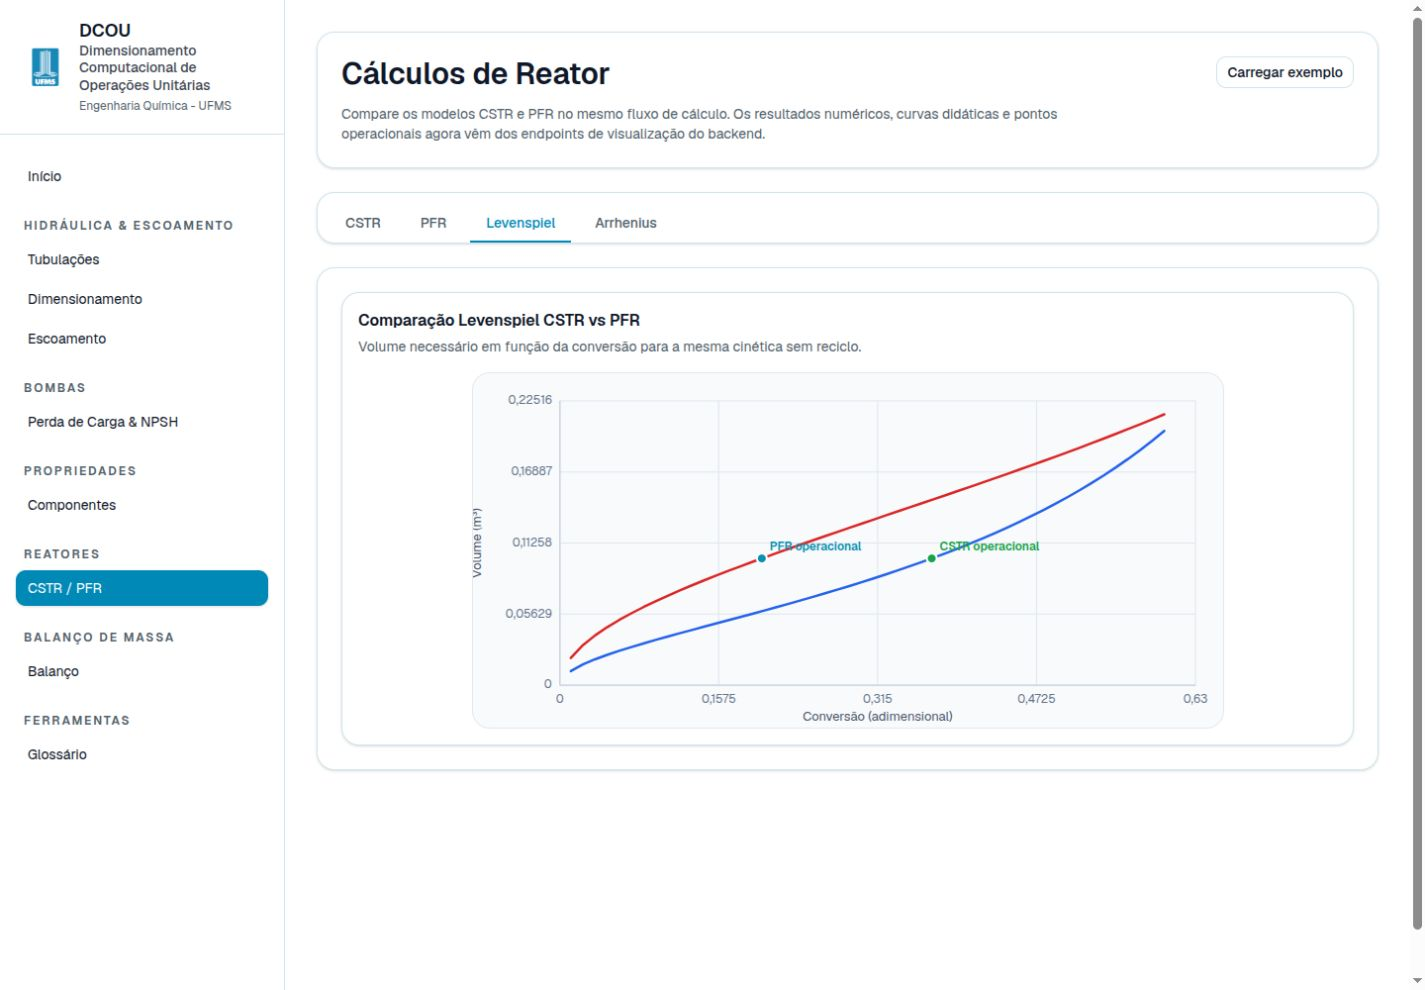
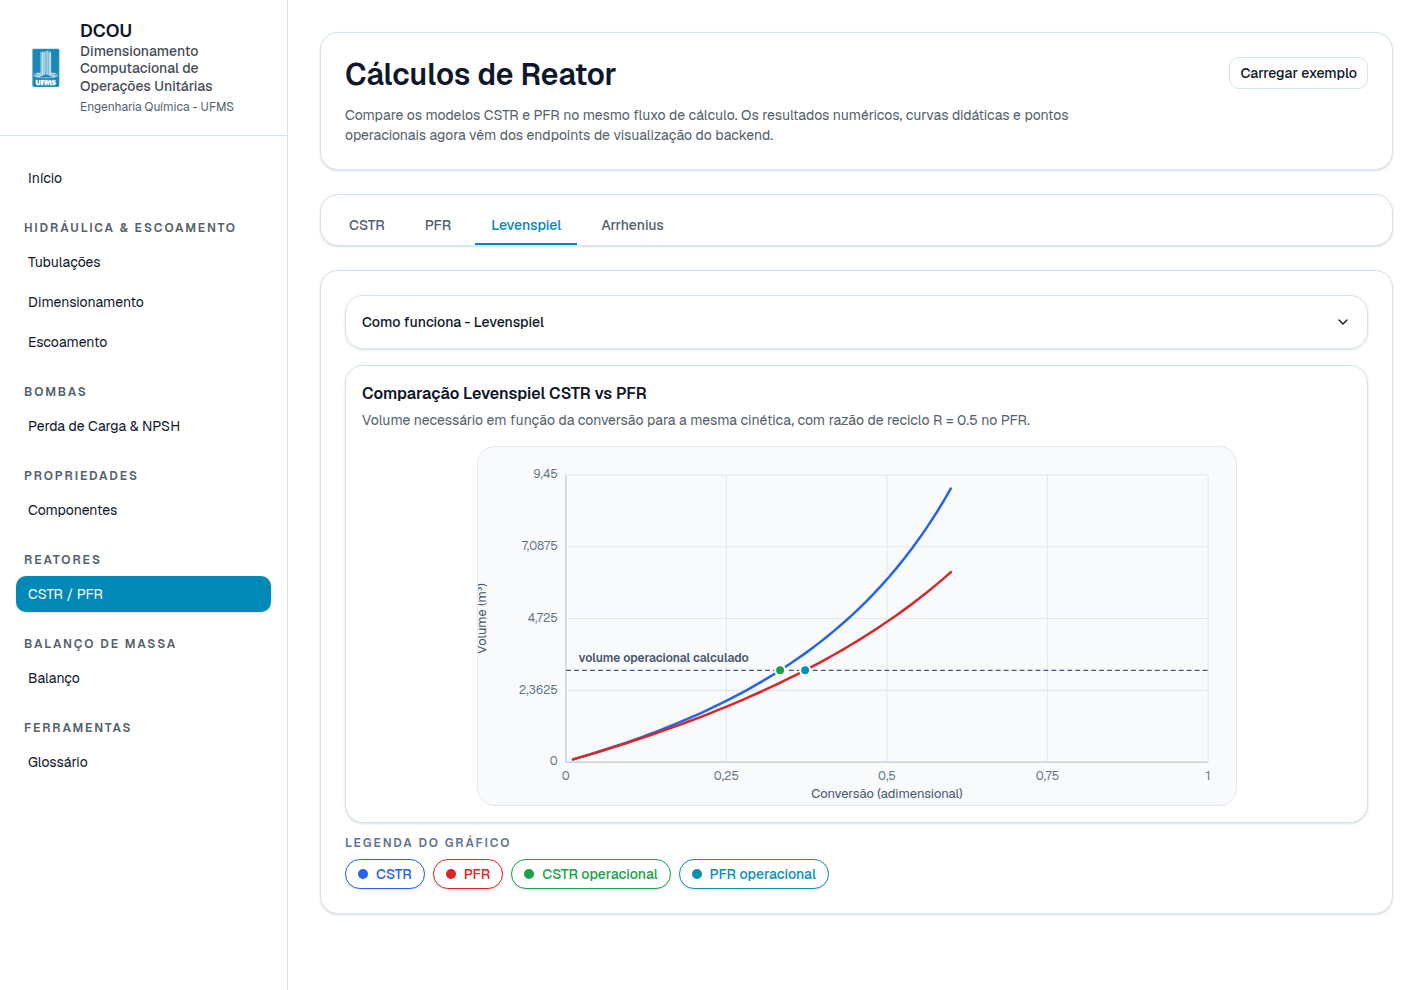
docs: refresh Levenspiel figure.

diff --git a/frontend/src/test/reactor-page.test.tsx b/frontend/src/test/reactor-page.test.tsx
@@ -806,6 +806,32 @@ describe("ReactorPage", () => {
     selectReactorTab("CSTR");
   }, 10000);
 
+  it("keeps the Levenspiel comparison available when only the PFR has recycle", async () => {
+    mockReactorRequests();
+    renderReactorPage();
+
+    expect(await screen.findByText(/Cálculos de Reator/i)).toBeInTheDocument();
+    fireEvent.click(screen.getByText(/Carregar exemplo/i));
+
+    selectReactorTab("PFR");
+    const pfrCard = await screen.findByTestId("reactor-pfr-card");
+    const recyclingRatio = within(pfrCard).getByLabelText(/Razão de reciclo/i);
+    fireEvent.change(recyclingRatio, { target: { value: "0.5" } });
+    fireEvent.click(within(pfrCard).getByText(/Calcular PFR/i));
+    await expectCardValueMath(pfrCard, /^Volume$/i);
+
+    selectReactorTab("CSTR");
+    const cstrCard = await screen.findByTestId("reactor-cstr-card");
+    fireEvent.click(within(cstrCard).getByText(/Calcular CSTR/i));
+    await expectCardValueMath(cstrCard, /^Volume$/i);
+
+    selectReactorTab("Levenspiel");
+    expect(await screen.findByTestId("levenspiel-chart")).toBeInTheDocument();
+    expect(requestBodiesFor("/api/reactor/levenspiel/chart")).toContainEqual(
+      expect.objectContaining({ recycling_ratio: 0.5 }),
+    );
+  }, 10000);
+
   it("shows a loading state while the comparative Levenspiel chart is being fetched", async () => {
     const requests = mockReactorRequests({ delayLevenspiel: true });
     renderReactorPage();

diff --git a/frontend/src/features/reactor/reactor-page.tsx b/frontend/src/features/reactor/reactor-page.tsx
@@ -79,7 +79,6 @@ type ReactorComparableBasis = {
   conversion: string;
   volume: string;
   residenceTime: string;
-  recyclingRatio: string;
   components: Array<{
     state: ReactorComponentState["state"];
     componentName: string;
@@ -332,7 +331,6 @@ function buildComparableBasis(form: ReactorFormState): ReactorComparableBasis | 
     conversion: normalizeScalar(form.conversion),
     volume: normalizeScalar(form.volume),
     residenceTime: normalizeScalar(form.residenceTime),
-    recyclingRatio: normalizeScalar(form.recyclingRatio),
     components: indexes.map((index) => ({
       state: form.components[index].state,
       componentName: normalizeScalar(form.components[index].component_name),

diff --git a/routers/reactor.py b/routers/reactor.py
@@ -157,6 +157,13 @@ def calculate_pfr_spatial_profile(payload: ReactorSpatialProfileRequest):
 def build_levenspiel_chart(payload: ReactorPlotRequest):
     try:
         components = _components_to_dicts(payload.components)
+        recycling_ratio = float(payload.recycling_ratio or 0.0)
+        subtitle = (
+            "Volume necessário em função da conversão para a mesma cinética sem reciclo."
+            if recycling_ratio <= 0
+            else "Volume necessário em função da conversão para a mesma cinética, "
+            f"com razão de reciclo R = {recycling_ratio:.6g} no PFR."
+        )
         chart_data = reactor_isothermal.conversion_vs_volume_data(
             {
                 "components": components,
@@ -165,7 +172,7 @@ def build_levenspiel_chart(payload: ReactorPlotRequest):
                 "operation_conditions": payload.operation_conditions,
                 "max_conversion": payload.max_conversion,
                 "num_points": 50,
-                "recycling_ratio_pfr": payload.recycling_ratio or 0.0,
+                "recycling_ratio_pfr": recycling_ratio,
             }
         )
         cstr_points = [{"x": point["y"], "y": point["x"]} for point in chart_data["cstr"]]
@@ -204,7 +211,7 @@ def build_levenspiel_chart(payload: ReactorPlotRequest):
                     "stoichiometric_coefficients": payload.stoichiometric_coefficients,
                     "reaction_rate_params": payload.reaction_rate_params,
                     "operation_conditions": payload.operation_conditions,
-                    "recycling_ratio": payload.recycling_ratio or 0.0,
+                    "recycling_ratio": recycling_ratio,
                     "conversion": payload.pfr_conversion,
                 }
             )
@@ -221,7 +228,7 @@ def build_levenspiel_chart(payload: ReactorPlotRequest):
         return build_chart_model(
             chart_id="reactor-levenspiel-chart",
             title="Comparação Levenspiel CSTR vs PFR",
-            subtitle="Volume necessário em função da conversão para a mesma cinética sem reciclo.",
+            subtitle=subtitle,
             axes={
                 "x": build_linear_axis(
                     x_values,

diff --git a/demo/tests/test_reactor_router.py b/demo/tests/test_reactor_router.py
@@ -277,6 +277,34 @@ def test_reactor_levenspiel_chart_endpoint_returns_raw_chart_model():
     ]
 
 
+@pytest.mark.parametrize("recycling_ratio", [0, None])
+def test_reactor_levenspiel_chart_subtitle_keeps_no_recycle_text_for_empty_ratio(
+    recycling_ratio,
+):
+    payload = _levenspiel_payload()
+    payload["recycling_ratio"] = recycling_ratio
+
+    response = client.post("/reactor/levenspiel/chart", json=payload)
+
+    assert response.status_code == 200
+    assert response.json()["subtitle"] == (
+        "Volume necessário em função da conversão para a mesma cinética sem reciclo."
+    )
+
+
+def test_reactor_levenspiel_chart_subtitle_reports_positive_recycle_ratio():
+    payload = _levenspiel_payload()
+    payload["recycling_ratio"] = 0.5
+
+    response = client.post("/reactor/levenspiel/chart", json=payload)
+
+    assert response.status_code == 200
+    assert response.json()["subtitle"] == (
+        "Volume necessário em função da conversão para a mesma cinética, "
+        "com razão de reciclo R = 0.5 no PFR."
+    )
+
+
 def test_reactor_pfr_profile_chart_endpoint_returns_component_and_temperature_series():
     response = client.post("/reactor/pfr/profile/chart", json=_profile_chart_payload())
 
